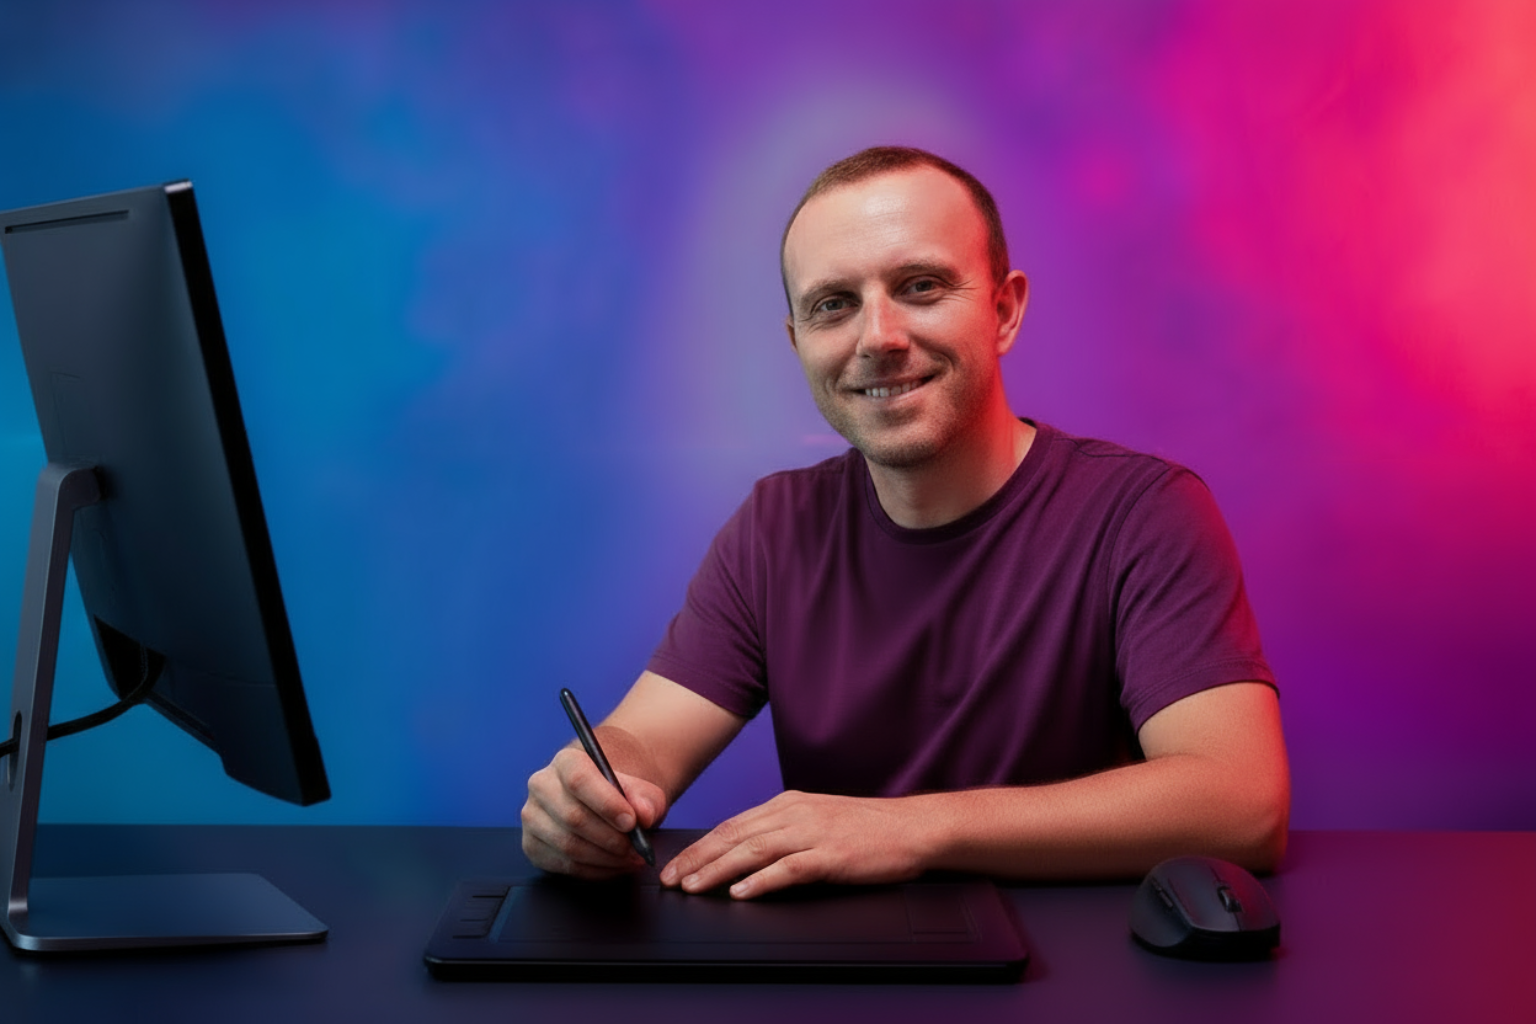
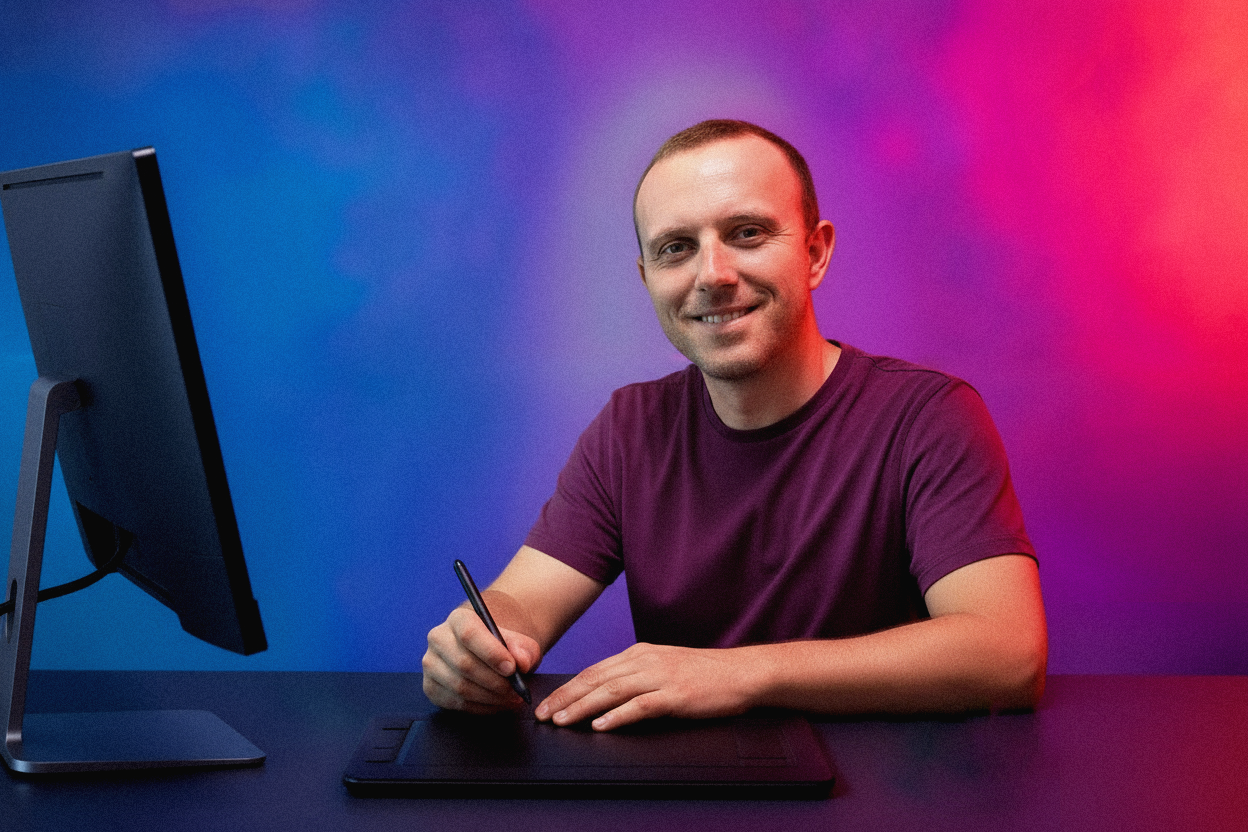
Add files via upload

diff --git a/moja strona6.html b/moja strona6.html
@@ -183,13 +183,21 @@
   object-fit: cover; /* dopasowanie wypełniające */
   display: block;
 }
-    .section-image-text{ 
-      display:flex;align-items:center;justify-content:center;padding:40px 20px;background:url('https://images.unsplash.com/photo-1504384308090-c894fdcc538d?ixlib=rb-4.0.3&auto=format&fit=crop&w=1950&q=80') center/cover no-repeat;color:var(--bg);border-radius:19px;margin:18px 20px }
+.section-image-text { 
+  display: flex;
+  align-items: center;
+  justify-content: center;
+  padding: 40px 20px;
+  background: url("tlooo.png") center/cover no-repeat;
+  color: var(--bg);
+  border-radius: 19px;
+  margin: 18px 20px;
+}
     .section-image-text .content{ 
           text-align: center; /* jeśli ma być do lewej na małym ekranie */
   font-size: clamp(1.1rem, 4vw, 2rem);
 
-      max-width:900px;background:rgba(0, 0, 0, 0.61);padding:28px;border-radius:12px;color:#fff;animation:fadeUp .7s both }
+      max-width:900px;background:rgba(0, 0, 0, 0.26);padding:28px;border-radius:12px;color:#fff;animation:fadeUp .7s both }
 
     #about{ max-width:var(--max-width);margin:40px auto;padding:20px; display:grid; grid-template-columns: 1fr; gap:20px }
     .about-row{ display:flex;gap:20px;align-items:center;flex-wrap:wrap }
@@ -218,13 +226,19 @@
     .social-icon:hover{ transform: scale(1.3); filter:brightness(1.4) }
 
 
-    footer {
-  background: linear-gradient(
-    140deg,
-    #ff39f5, /* róż */
-    #3165ff   /* niebieski */
-  );
-}
+  footer {
+    color: white; /* kolor tekstu */
+    text-align: center;
+    padding: 20px;
+    font-family: Arial, sans-serif;
+    background: linear-gradient(to right, 
+      #f23d4c, 
+      #d15dff, 
+      #ff576d, 
+      #614ED9, 
+      #0B7ABF
+    );
+  }
 
     footer{ padding:36px 20px;margin:0 auto 40px; 
         color:#000000;overflow:hidden;;background-size:300% 300%;
@@ -294,7 +308,7 @@
 
   <section id="portfolio" class="portfolio" aria-label="portfolio">
     <article class="card">
-      <img src="appp1.png" alt="Projekt: Strona responsywna">
+      <img src="app01.jpg" alt="Projekt: Strona responsywna">
       <div class="card-body">
         <h3>Strona responsywna</h3>
         <p>Nowoczesny projekt strony internetowej — design, UX i wdrożenie.</p>
@@ -318,7 +332,7 @@
     </article>
 
     <article class="card">
-      <img src="grafiki 3d napiss.png" alt="Projekt: Grafiki 3D">
+      <img src="appp1.png" alt="Projekt: Grafiki 3D">
       <div class="card-body">
         <h3>Grafiki 3D</h3>
         <p>Animacje i grafiki 3D przygotowane pod social media i&nbsp;kampanie.</p>
@@ -374,9 +388,9 @@
 
     <div class="about-cards">
       <div class="about-card">
-        <img src="https://images.unsplash.com/photo-1498050108023-c5249f4df085?auto=format&fit=crop&w=800&q=80" alt="Oryginalne strony internetowe">
+        <img src="appp5.jpg" alt="Oryginalne logo">
         <div>
-          <h3>Oryginalne strony internetowe</h3>
+          <h3>Oryginalne logo</h3>
           <p class="muted">Projekty które przyciągają uwagę — nietypowe układy i efekty animacji.</p>
         </div>
       </div>
